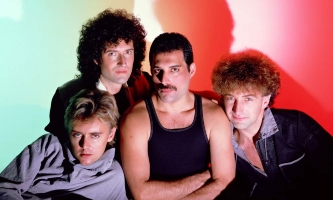
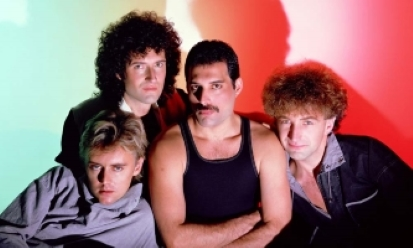
rework almost done

diff --git a/HTML/Bands.html b/HTML/Bands.html
@@ -41,15 +41,26 @@
                 <area target="" alt="Brian May" title="Brian May" href="https://en.wikipedia.org/wiki/Brian_May" coords="107,48,42" shape="circle">
             </map></li>
          <li class="item_c">
-            <img src="../Pictures/brian-may-live-credit-JordiVidal-Redferns@1400x1050.jpg" usemap="#image-map">
+            <img src="../Pictures/BestGuitrarPlayer.jpg" usemap="#image-map">
             <map name="image-map">
                 <area target="_blank" alt="Brian's signature guitar" title="Brian's signature guitar" href="https://www.guitarcenter.com/Brian-May-Guitars/Brian-May-Signature-Electric-Guitar.gc" coords="197,164,50" shape="circle">
             </map></li>
      </ul>
-     <h1>The Queen</h1>
+     <h1><a href="https://www.imdb.com/title/tt1727824/?ref_=nv_sr_srsg_0">The Queen</a></h1>
      <p>Queen are a British rock band formed in London in 1970. Their classic line-up was Freddie Mercury (lead vocals, piano), Brian May (guitar, vocals), Roger Taylor (drums, vocals) and John Deacon (bass). Their earliest works were influenced by progressive rock, hard rock and heavy metal, but the band gradually ventured into more conventional and radio-friendly works by incorporating further styles, such as arena rock and pop rock.</p>
      <iframe width="560" height="315" src="https://www.youtube.com/embed/RPZdgyuixPA" title="YouTube video player" allow="accelerometer; autoplay; clipboard-write; encrypted-media; gyroscope; picture-in-picture" allowfullscreen></iframe>
-    </div>  
+</div>  
+<div class="Slipknot">
+    <ul class="container">
+        <li><img src="../Pictures/Slipknot.jpg" alt="Slipknot band memebers"></li>
+        <li><img src="../Pictures/MickThompson.jpg" alt="Mick thomposon"></li>
+        <li><img src="../Pictures/CoreyTaylor.jpg" alt="CoreyTaylor"></li>
+    </ul>
+    <h1>Slipknot</h1>
+    <p><mark>Slipknot is an American heavy metal band</mark> formed in Des Moines, Iowa in 1995 by percussionist Shawn Crahan, drummer Joey Jordison and bassist Paul Gray. After several lineup changes in its early years, the band settled on nine members for more than a decade: Crahan, Jordison, Gray, Craig Jones, Mick Thomson, Corey Taylor, Sid Wilson, Chris Fehn, and Jim Root. Gray died on May 24, 2010, and was replaced during 2011–2014 by guitarist Donnie Steele. Jordison was dismissed from the band on December 12, 2013. Steele left during the recording sessions for .5: The Gray Chapter. The band found replacements in Alessandro Venturella on bass and Jay Weinberg on drums. After the departure of Jordison, as of December 2013 the only founding member in the current lineup is percussionist Crahan. Fehn was also dismissed from the band in March 2019 prior to the writing of We Are Not Your Kind.</p>
+    <h2>Best Moshpit Ever</h2>
+    <iframe width="560" height="315" src="https://www.youtube.com/embed/TJpTGeVJpVQ?start=355" title="YouTube video player" allow="accelerometer; autoplay; clipboard-write; encrypted-media; gyroscope; picture-in-picture" allowfullscreen></iframe>
+</div>
 
 </body>
 </html>

diff --git a/Styles/Bands.css b/Styles/Bands.css
@@ -10,17 +10,51 @@
     }
 }
 
-.queen{
-    text-align: center;
+a{
+    text-decoration: none;
     color: aliceblue;
 }
 
-
 h1{
+    display: inline-block;
+    padding:1px;
     text-align: center;
     text-shadow: 5px 2px rgb(92, 40, 40);
+    color: white;
     animation: nameAnimtaion 0.8s ease-in 1s;
+}
 
+h2{
+    padding:1px;
+    text-align: center;
+    text-shadow: 5px 2px rgb(92, 40, 40);
+    animation: threeDimensionAnim 2s ease-in-out;
+    color: white;
+}
+
+@keyframes threeDimensionAnim{
+    from{
+        transform: rotate3d(0);
+    } to {
+        transform: rotate3d(1, 1, 0.5, 360deg);
+    }
+}
+
+h1:after{
+    content: "";
+    display: block;
+    border-bottom:solid 5px white;
+    transform: scaleX(0);
+    transition: transform 0.3s ease-in-out;
+}
+
+h1:hover::after{
+    transform: scaleX(1);
+}
+
+.queen, .Slipknot{
+    text-align: center;
+    color: aliceblue;
 }
 
 @keyframes nameAnimtaion{
@@ -34,11 +68,16 @@ h1{
     }
 }
 
-.queen .container{
+.queen .container, .Slipknot .container{
     display: flex;
     flex-direction: row;
     justify-content: space-evenly;
     list-style: none;
+}
+
+.Slipknot mark{
+    background-color: red;
+    color:white;
 }
 
 @media screen and (max-width: 500px){
